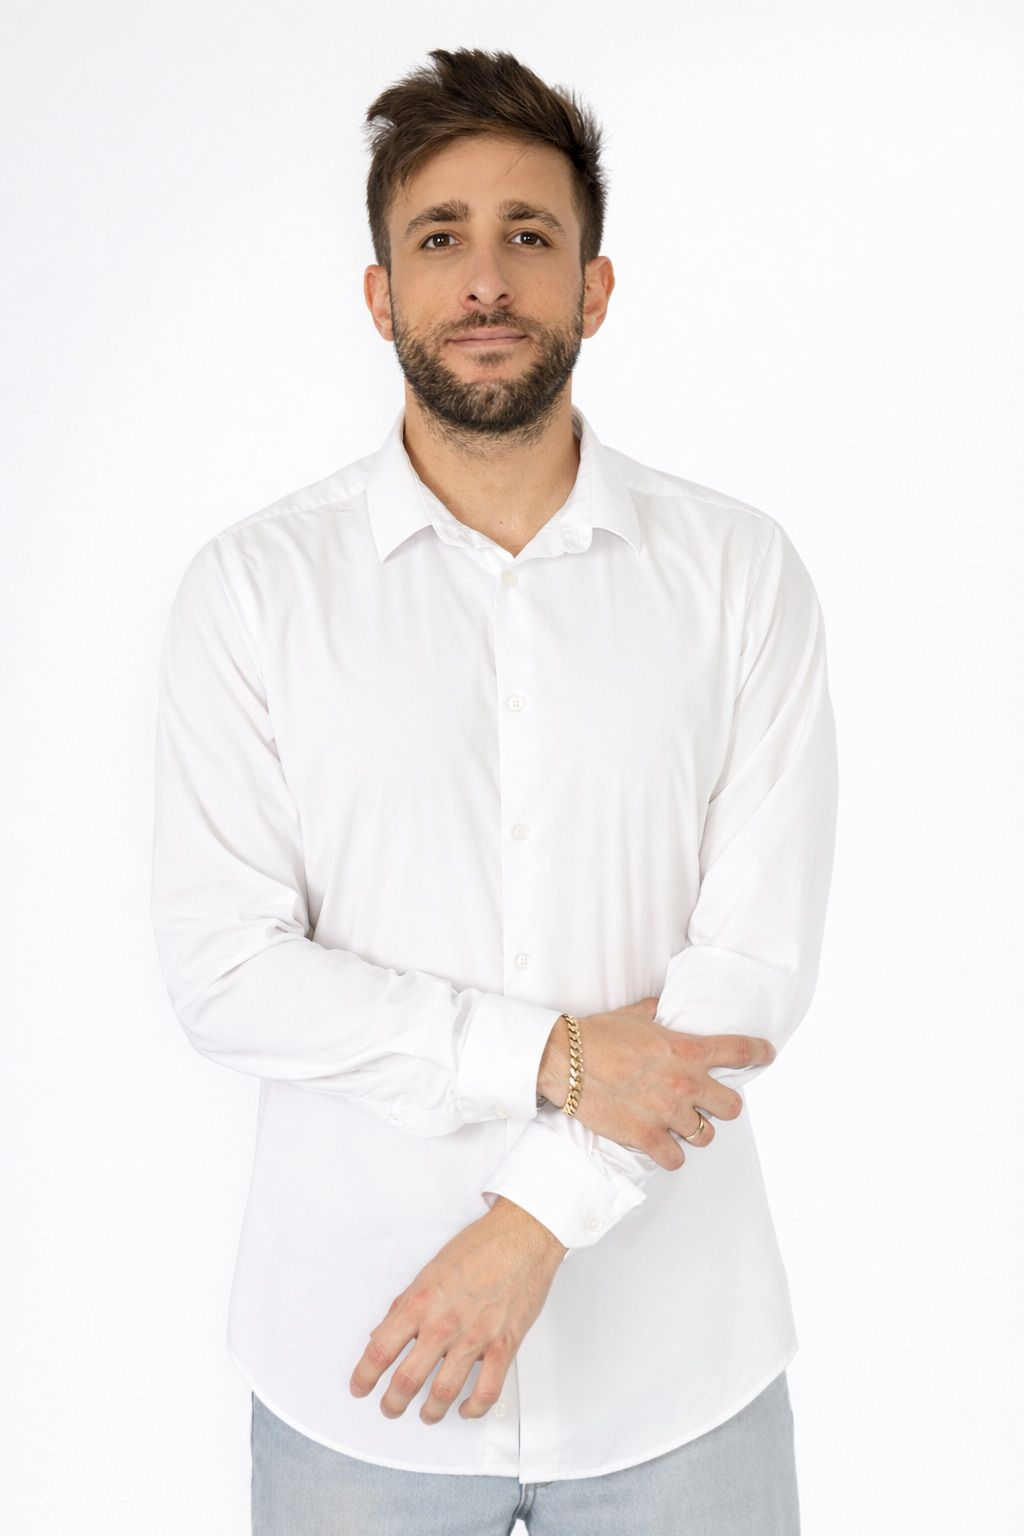
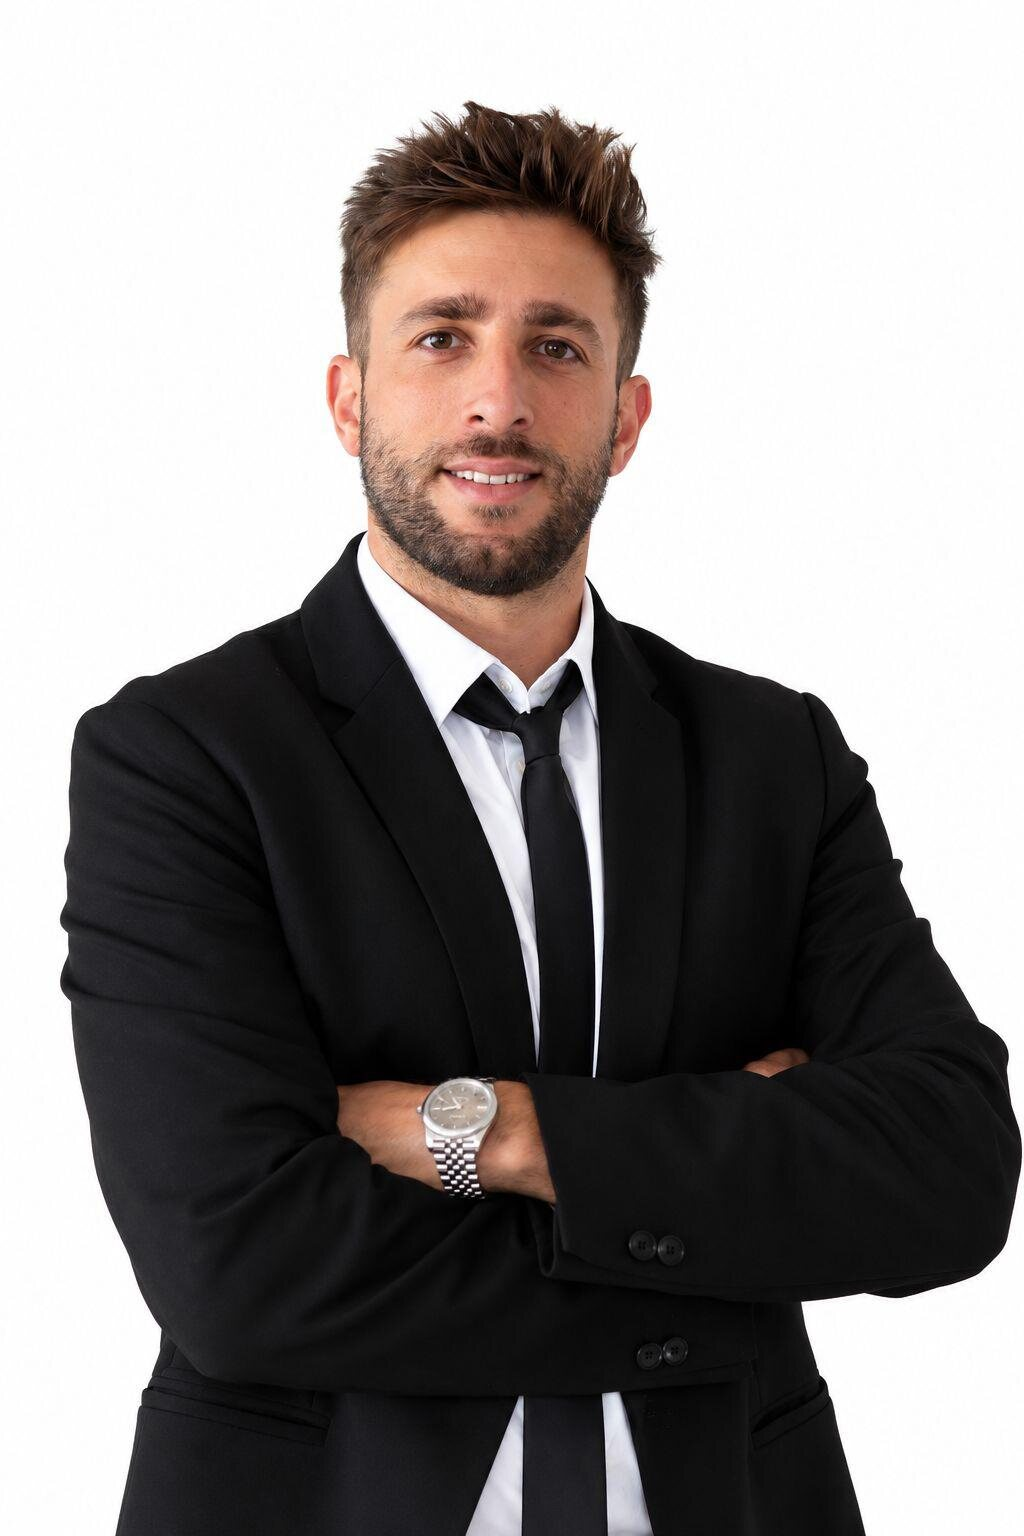
feat: New studio portrait, plus a real Open Graph card
The client sent the suit-and-tie shot he promised. Installed in both
places the old portrait appeared:

- Hero: the frame composites a cut-out over a teal radial gradient, so
  the white studio background was removed (Magnific, 3 credits) rather
  than dropped in as a white rectangle. Hair edges came out clean, no
  halo. Quantised to 320KB from 604KB, alpha intact.
- About page and the Person/LegalService structured data: the straight
  photo at 1024x1536, 128KB.

Both frames verified by reproducing the exact object-fit:cover crop the
browser performs — head fully in frame with headroom, cut at the waist.

Also fixed something the new photo made newly relevant: buildMetadata
declared every Open Graph image as 1200x630 while pointing at a
1024x1536 portrait, so the shape hint sent to social platforms was
simply wrong. Added a real 1200x630 card — site gradient, the new
cut-out, a gold baseline, no text since the platform overlays the title
and Hebrew glyphs are the one thing the local toolchain renders badly —
and pointed the default at it. Article pages keep their own 16:9 covers,
which match the declared aspect.

diff --git a/lib/seo.ts b/lib/seo.ts
@@ -12,7 +12,7 @@ export function buildMetadata({
   description,
   path,
   type = "website",
-  image = "/moshe-amsalem.jpeg",
+  image = "/og-image.jpg",
 }: {
   title: string;
   description: string;
@@ -34,6 +34,9 @@ export function buildMetadata({
       type,
       siteName: siteConfig.name,
       locale: "he_IL",
+      // og-image.jpg really is 1200x630. Article covers passed in here are
+      // 1600x900 - same 16:9 shape, and platforms scale to fit - so the
+      // declared pair stays a faithful aspect hint either way.
       images: [{ url: `${BASE}${image}`, width: 1200, height: 630, alt: siteConfig.name }],
     },
     twitter: {
